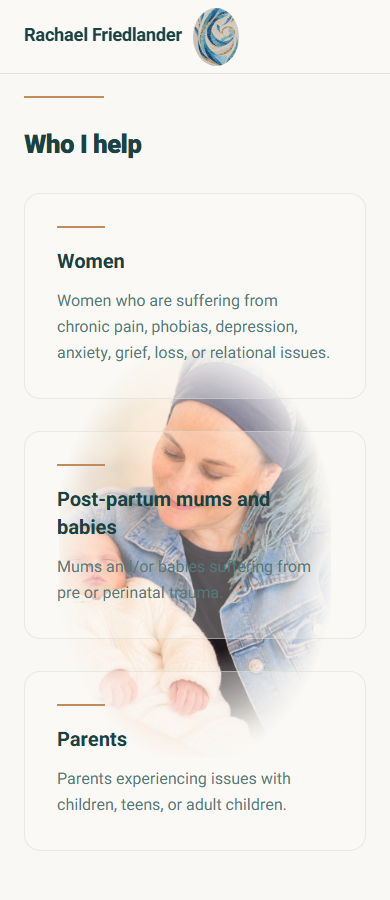
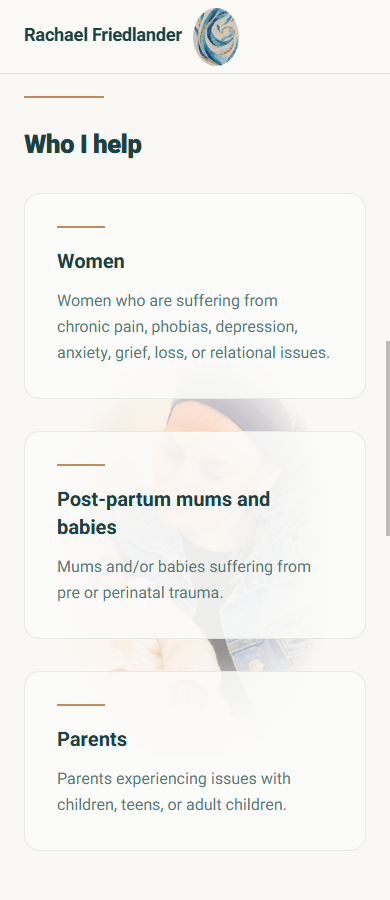
Pictures - fix 2

Changed region(s): [[0.1846, 0.4044, 0.8308, 0.8089], [0.9846, 0.3733, 1.0, 0.5911], [0.2769, 0.7467, 0.3692, 0.8089]]

diff --git a/styles.css b/styles.css
@@ -284,6 +284,7 @@ p {
     top: 37%;
     bottom: 20%;
     width: min(17rem, 74%);
+    opacity: 0.45;
   }
 }
 
@@ -306,7 +307,7 @@ p {
 }
 
 .band-help .card {
-  background: rgba(251, 250, 249, 0.28);
+  background: rgba(251, 250, 249, 0.88);
 }
 
 .card .rule {
@@ -364,21 +365,54 @@ p {
   }
 
   .help-bg {
-    top: 42%;
+    top: 58%;
     bottom: auto;
-    width: 210px;
-    height: 236px;
+    width: 460px;
+    height: 516px;
+    transform: translate(-50%, -50%);
+    opacity: 0.42;
   }
 
   .help-bg img {
     object-fit: contain;
     object-position: center;
-    -webkit-mask-image: none;
-    mask-image: none;
+    -webkit-mask-image: radial-gradient(ellipse at center, #000 58%, transparent 82%);
+    mask-image: radial-gradient(ellipse at center, #000 58%, transparent 82%);
+  }
+
+  .hero-copy {
+    max-width: 34rem;
+  }
+
+  .hero-media {
+    inset: auto;
+    top: 50%;
+    right: max(2.5rem, calc((100% - 1180px) / 2));
+    bottom: auto;
+    left: auto;
+    width: min(320px, 26vw);
+    transform: translateY(-50%);
   }
 
   .hero-media img {
-    transform: scale(1.35);
-    transform-origin: 4% 32%;
+    width: 100%;
+    height: auto;
+    object-fit: contain;
+    object-position: center;
+    transform: none;
+    filter: blur(0.6px);
+    opacity: 0.72;
+    -webkit-mask-image: radial-gradient(ellipse at center, #000 64%, transparent 88%);
+    mask-image: radial-gradient(ellipse at center, #000 64%, transparent 88%);
+  }
+
+  .hero-shade {
+    background: linear-gradient(
+      to right,
+      rgba(250, 248, 245, 0.96) 0%,
+      rgba(250, 248, 245, 0.9) 40%,
+      rgba(250, 248, 245, 0.45) 68%,
+      rgba(250, 248, 245, 0.2) 100%
+    );
   }
 }

diff --git a/.preview/shoot.py b/.preview/shoot.py
@@ -65,9 +65,8 @@ try:
     about = "document.documentElement.style.scrollBehavior='auto'; document.querySelector('.about-grid').scrollIntoView({block:'start'})"
 
     help = "document.documentElement.style.scrollBehavior='auto'; document.querySelector('.band-help').scrollIntoView({block:'start'})"
-    shoot("header-1440.png", 1440, 220, False, top)
+    shoot("hero-1440.png", 1440, 900, False, top)
     shoot("help-1440.png", 1440, 900, False, help)
-    shoot("header-390.png", 390, 180, True, top)
     shoot("help-390.png", 390, 900, True, help)
     ws.close()
 finally:
